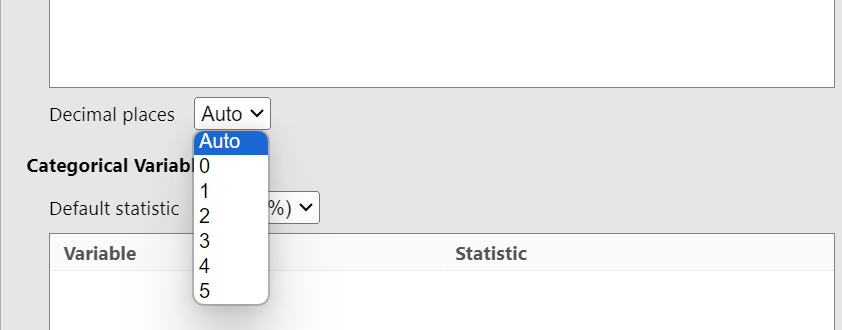
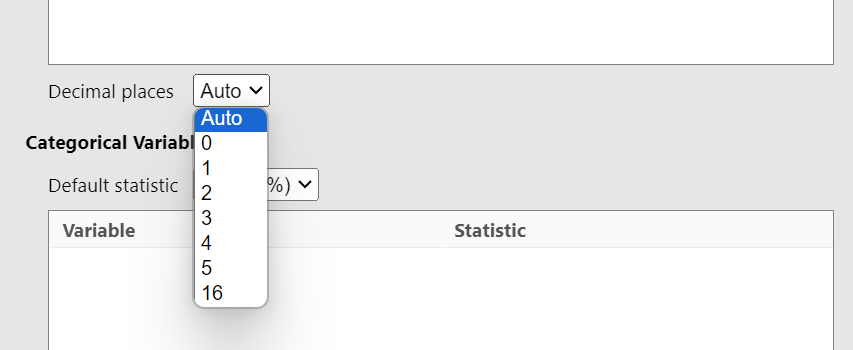
feat: add 16 decimal places fallback and improve CI label
- Add "16" to all numeric formatting dropdowns (coefficients, CI, percentages, differences, etc.) across all tables to allow raw, unrounded output.
- Rename "Merge with statistic column" to "Merge CI with statistic column" in the Summary Table options for better clarity.
- Update the user guide and stats-digits screenshot to reflect the new "16" decimal places setting.

diff --git a/docs/user-guide.md b/docs/user-guide.md
@@ -67,7 +67,7 @@ You can independently set the rounding rules for various elements in your tables
 </figure>
 
 * **Auto (Default):** Typically uses adaptive decimal places, though certain themes may affect this behavior.
-* **Fixed (0 to 5):** Uses a fixed number of decimal places.
+* **Fixed (0-5, 16):** Uses a fixed number of decimal places.
 
 #### P-Values
 